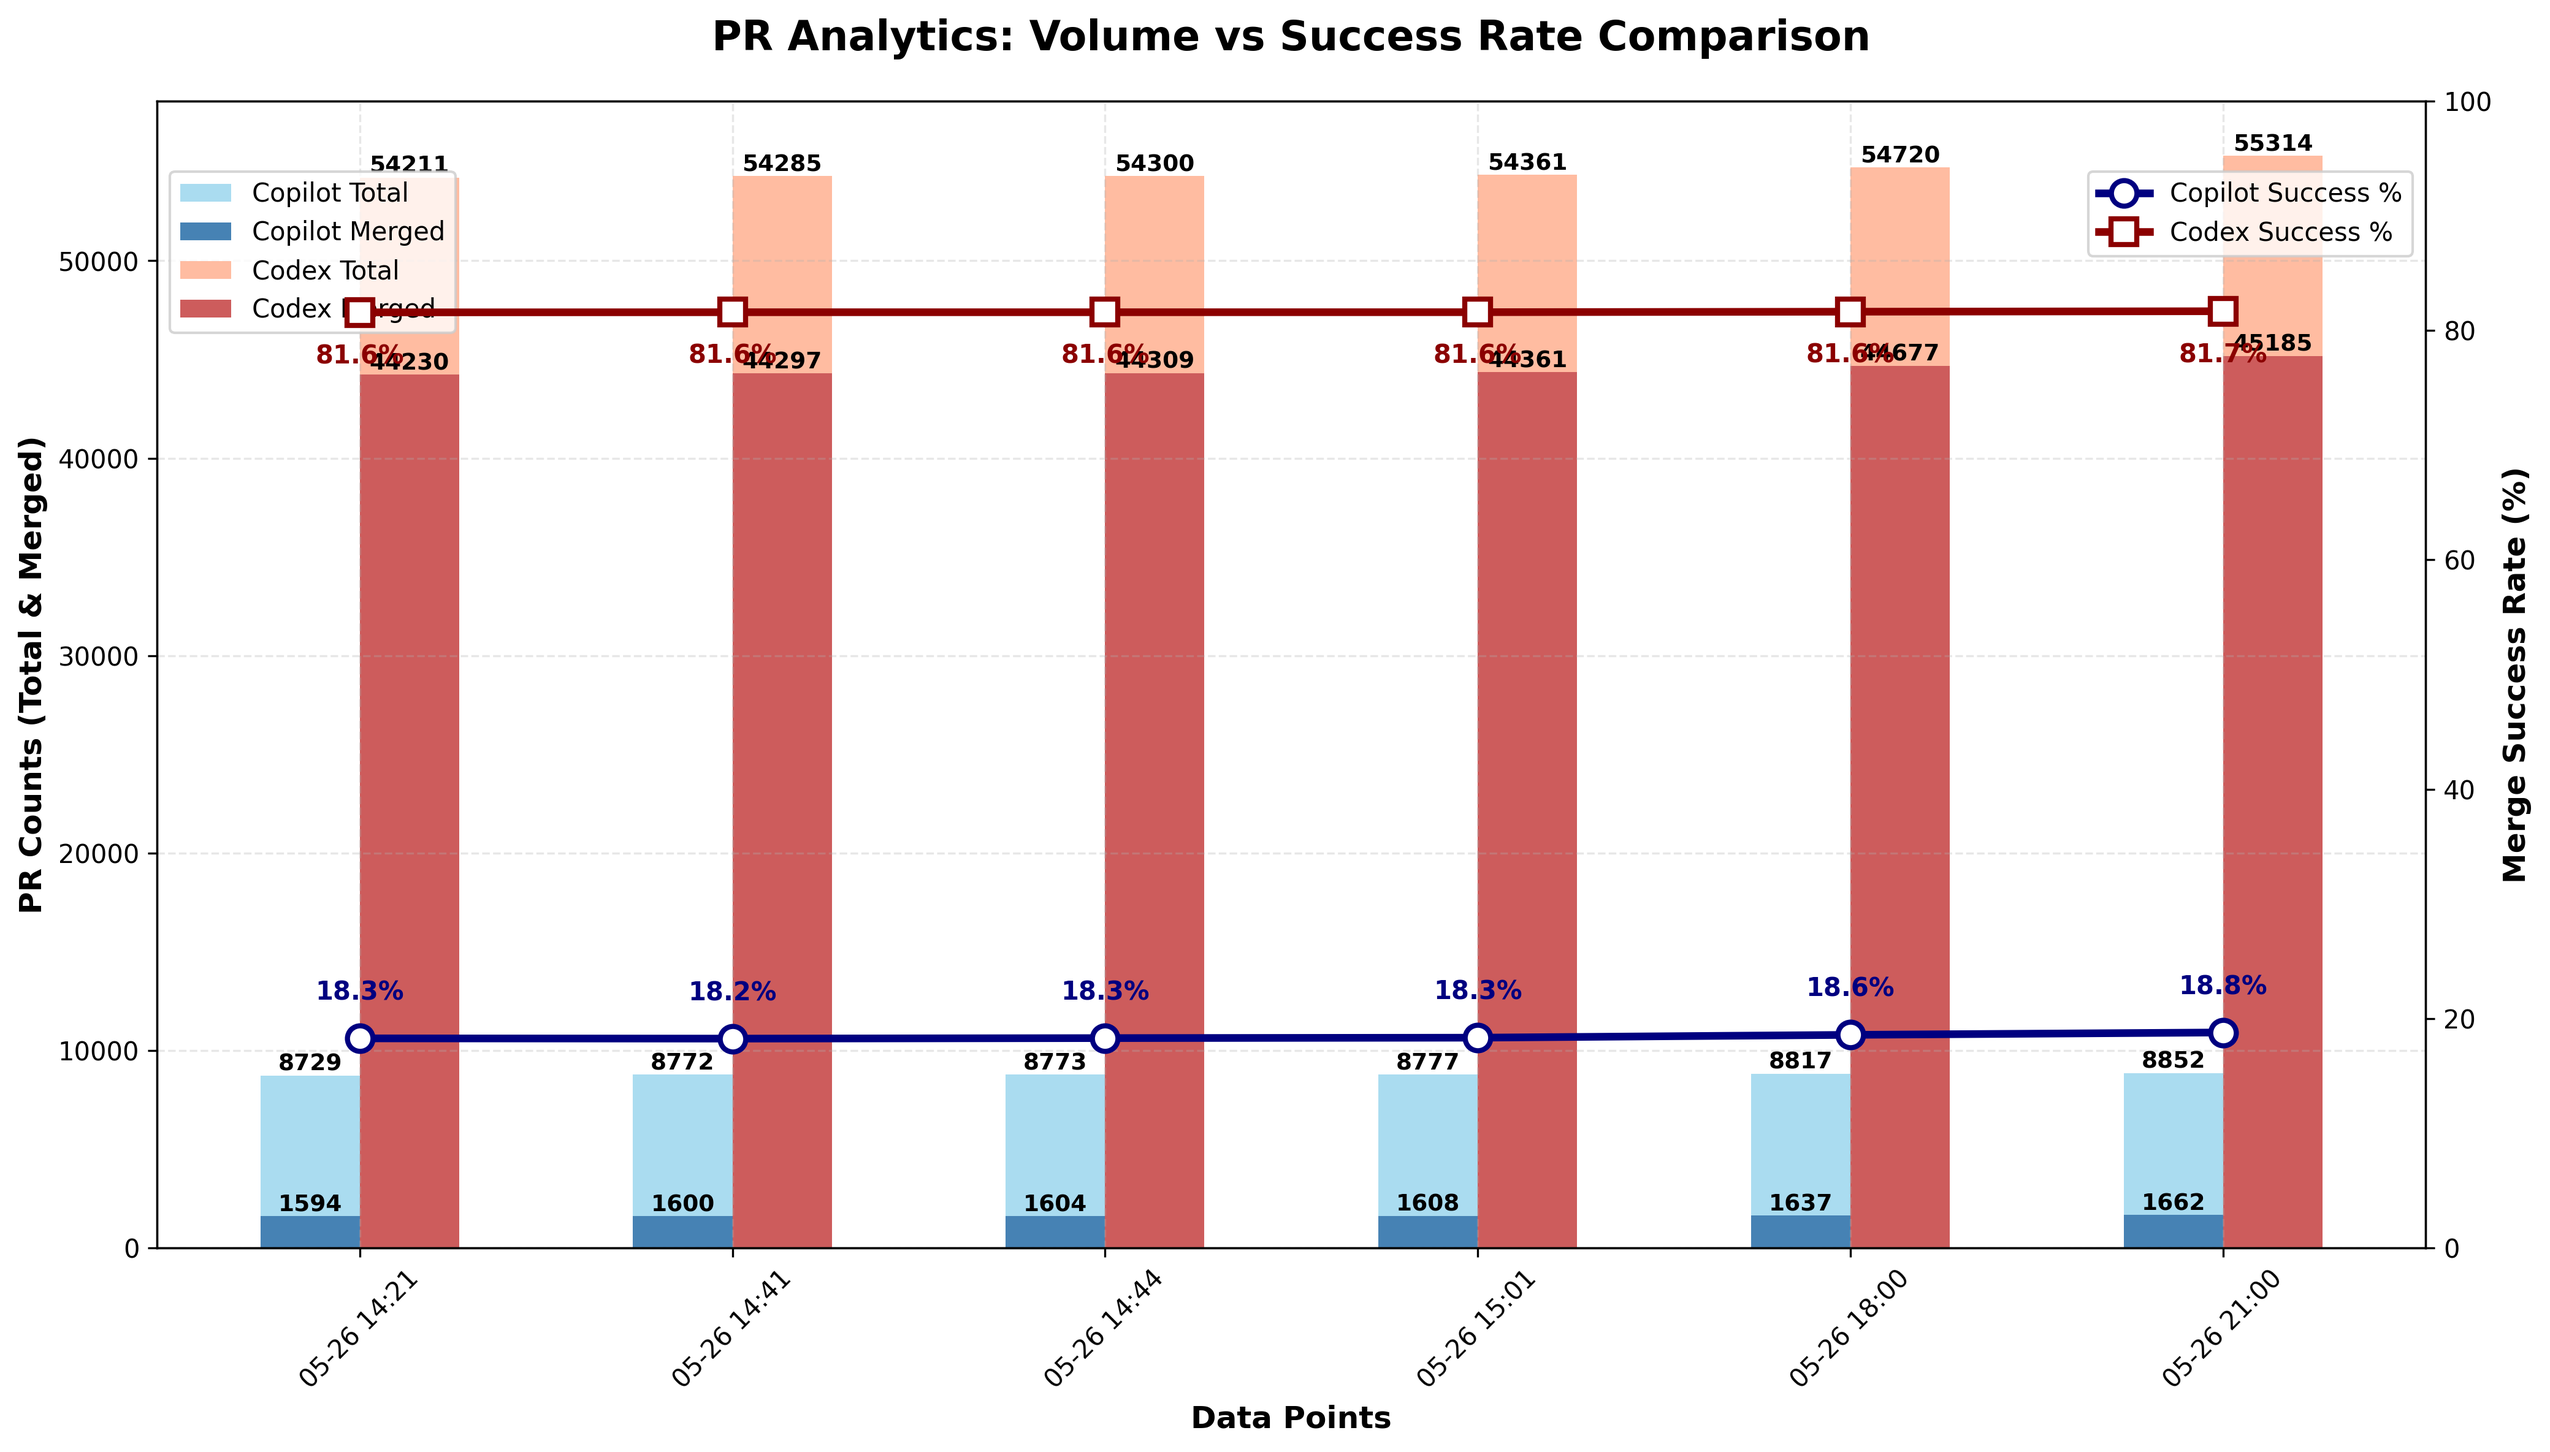
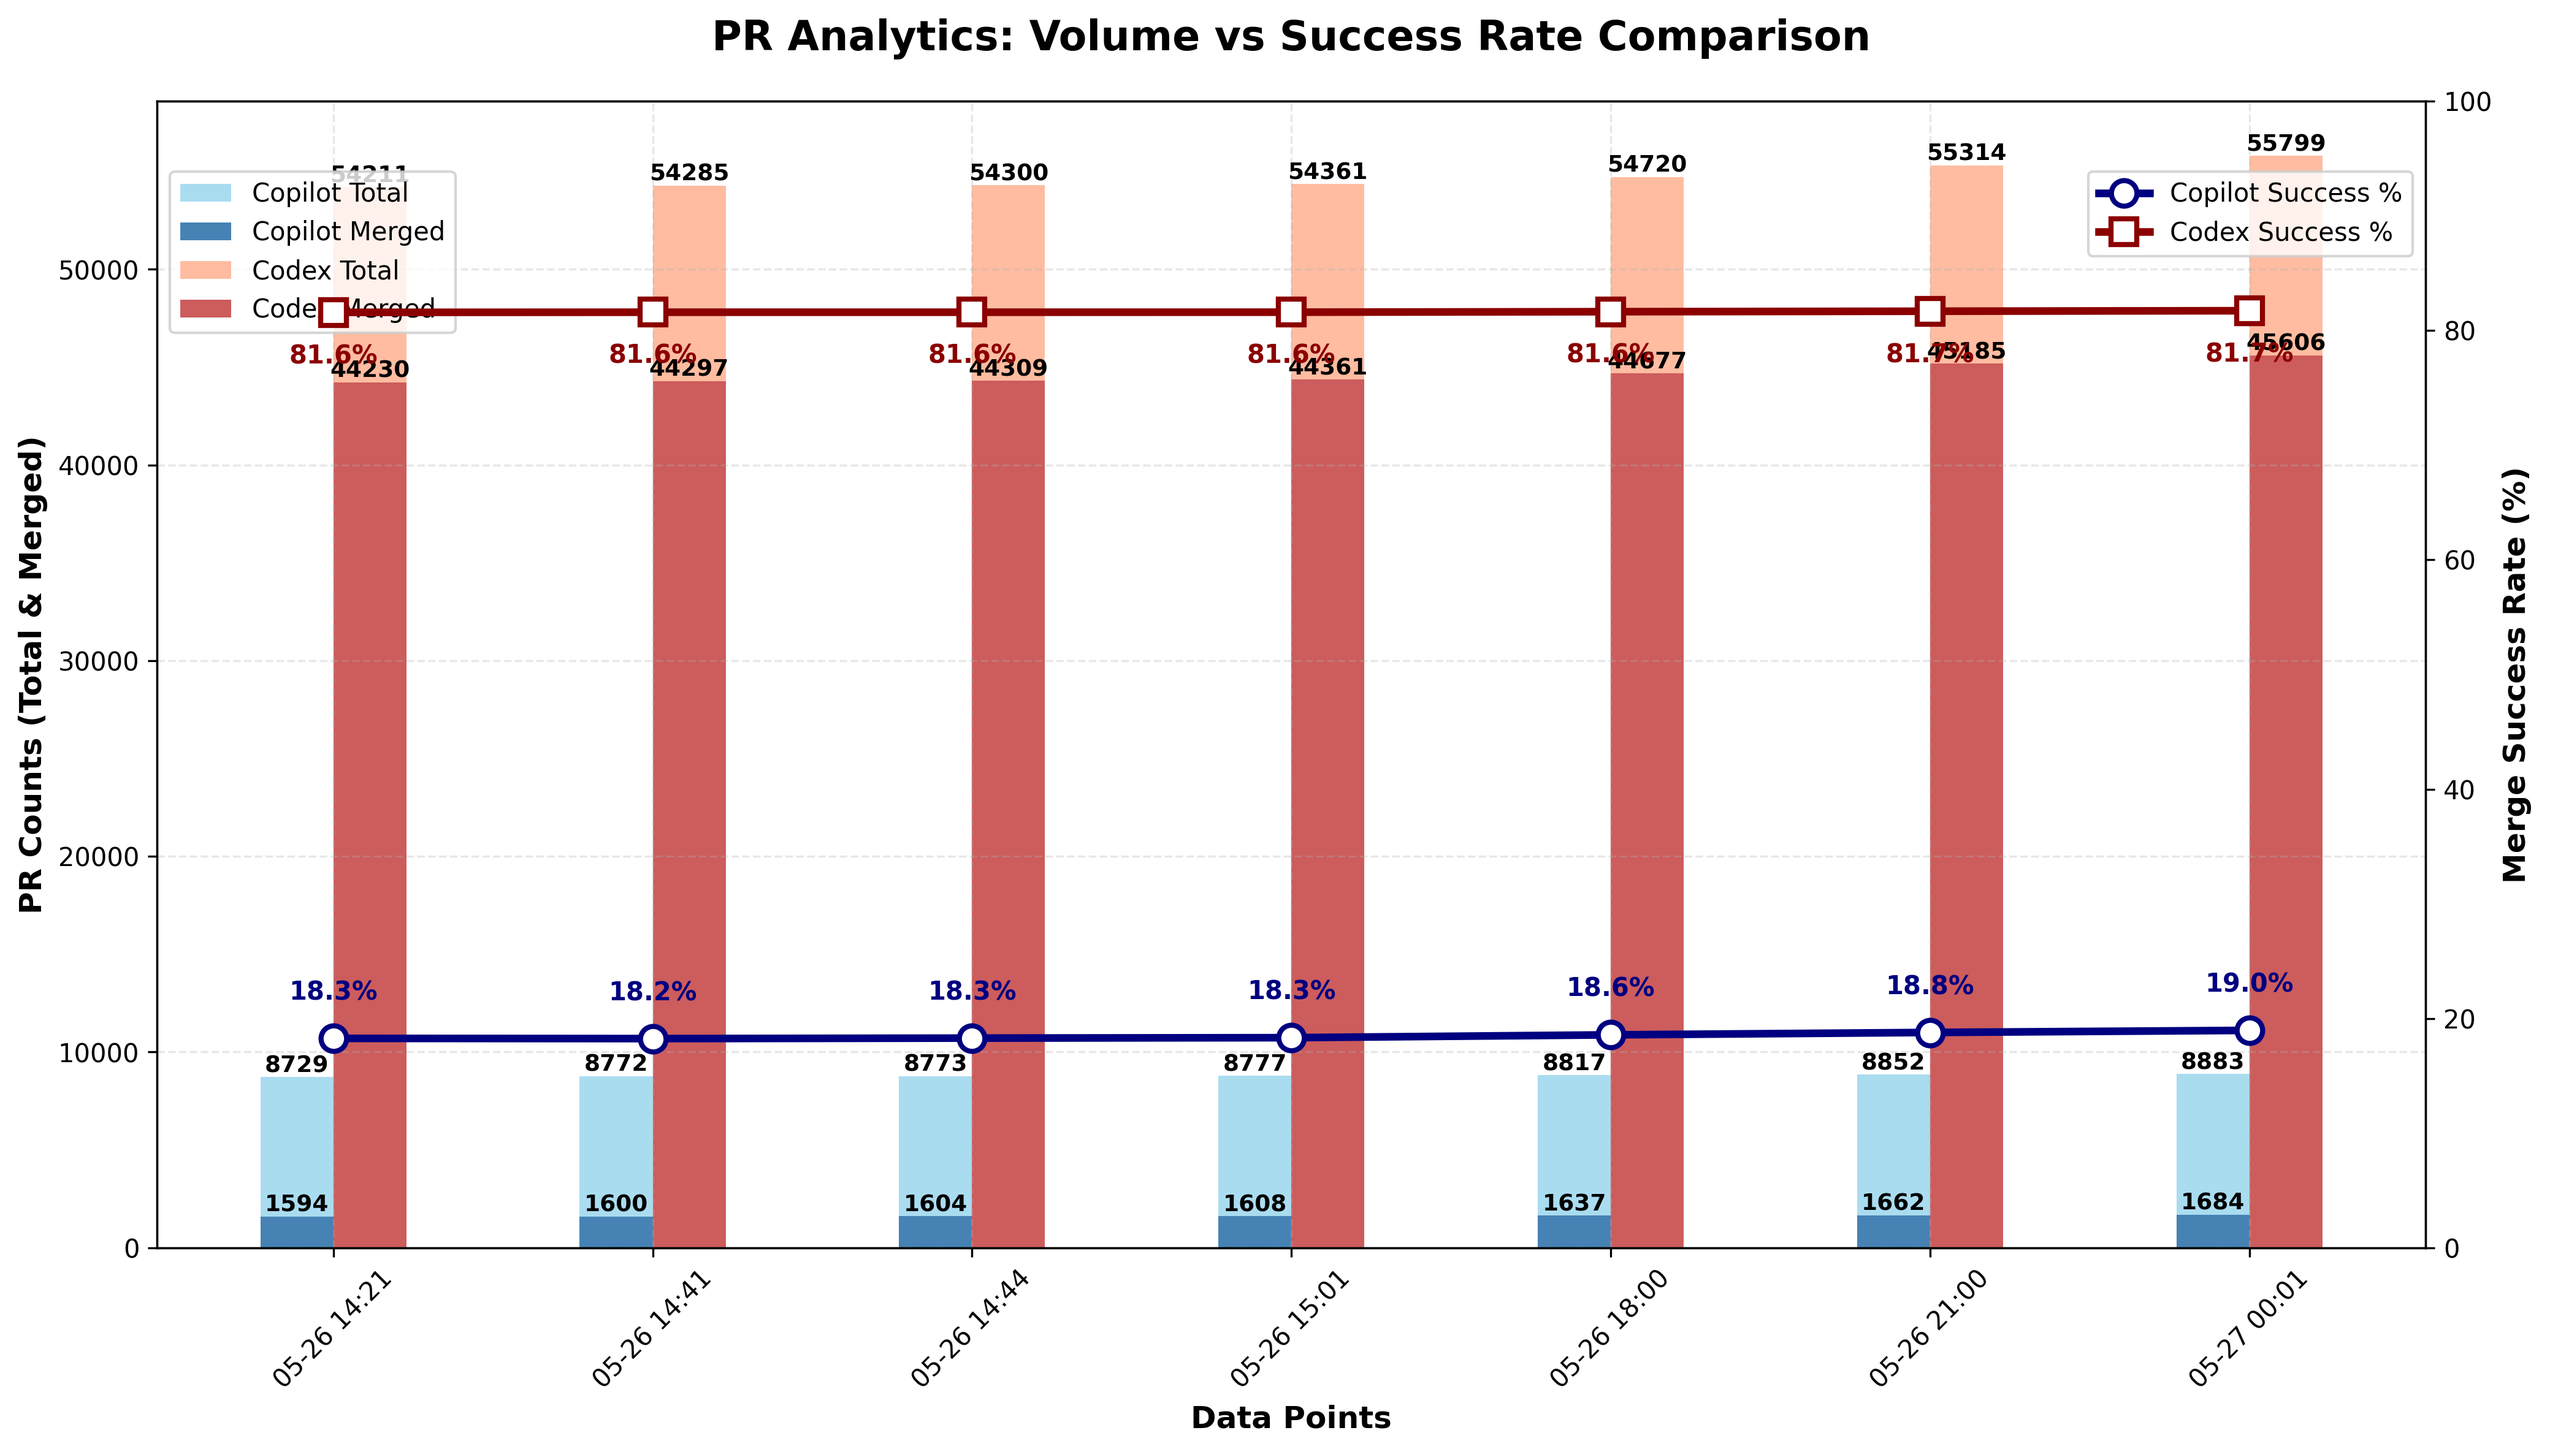
chore: update PR‑approval chart

diff --git a/README.md b/README.md
@@ -17,5 +17,5 @@ Explore the GitHub search queries used:
 
 | Project | Total PRs | Merged PRs | Merge Rate |
 | ------- | --------- | ---------- | ---------- |
-| Copilot | 8,852 | 1,662 | 18.78% |
-| Codex   | 55,314 | 45,185 | 81.69% |
+| Copilot | 8,883 | 1,684 | 18.96% |
+| Codex   | 55,799 | 45,606 | 81.73% |
